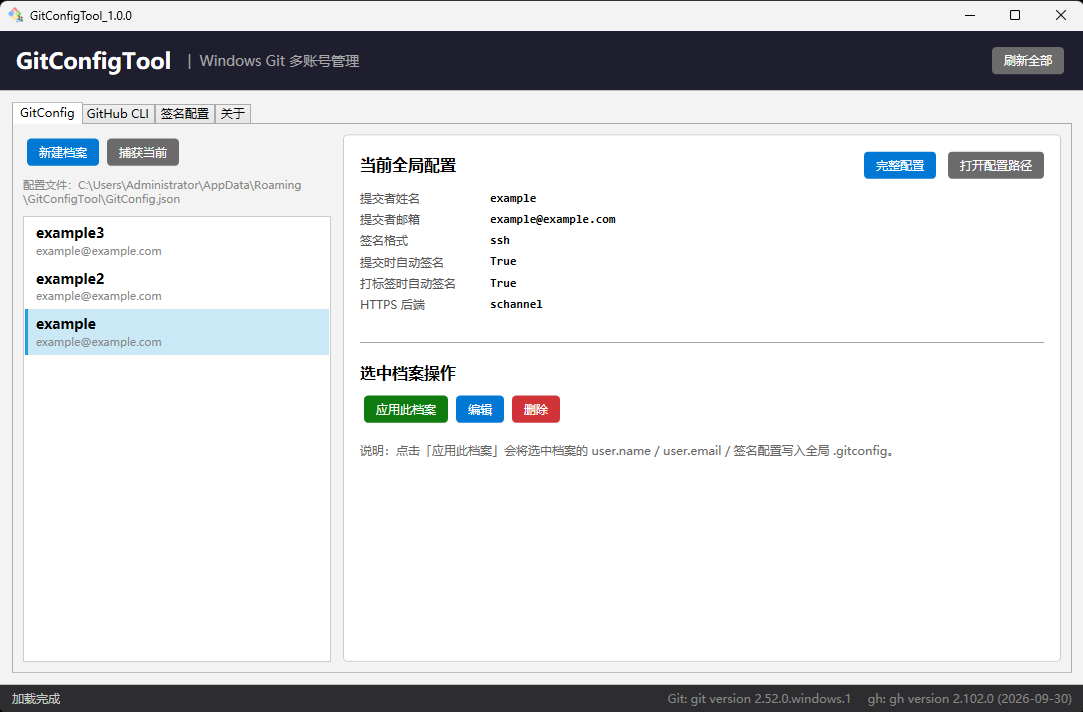
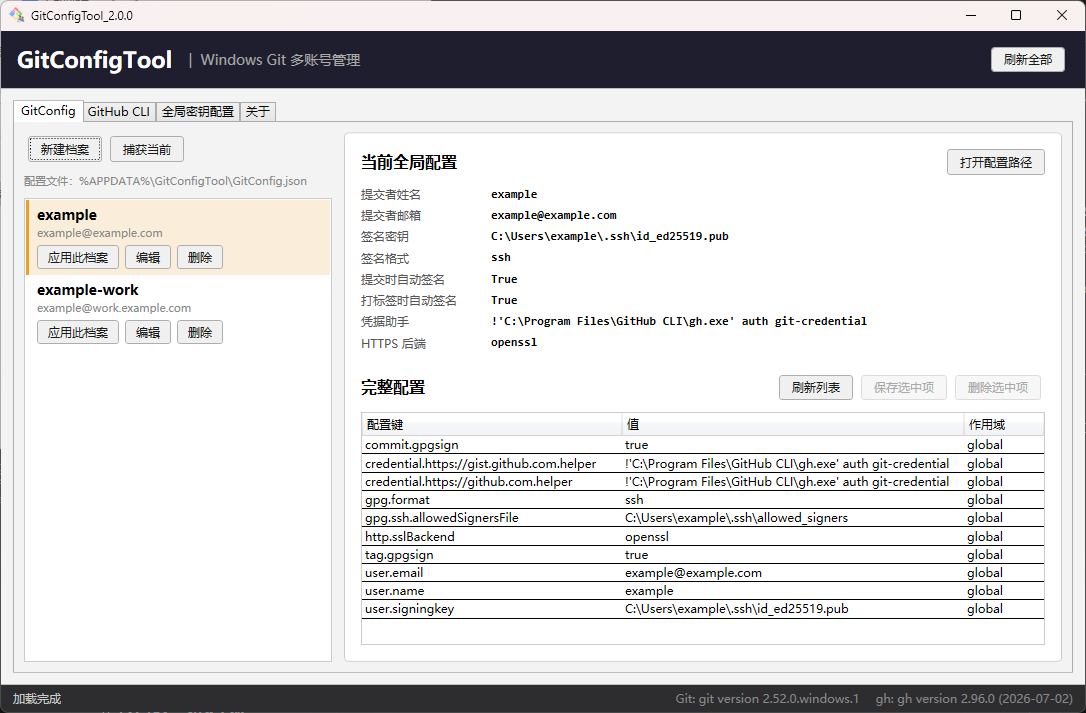
更新 README：补齐目录树、功能说明与已知限制

diff --git a/README.md b/README.md
@@ -4,6 +4,8 @@
 
 > **Windows平台 `Git` 多账号快速切换工具**
 
+> 把繁杂的命令通过GUI快速操作，提高效率，节省时间
+
 [![Platform](https://img.shields.io/badge/Platform-Windows_10%2F11-0078D4?logo=windows&logoColor=white)](https://www.microsoft.com/windows)
 [![Runtime](https://img.shields.io/badge/Runtime-.NET_Framework_4.8-512BD4?logo=dotnet&logoColor=white)](https://dotnet.microsoft.com/download/dotnet-framework)
 [![Language](https://img.shields.io/badge/Language-C%23-239120?logo=csharp&logoColor=white)](https://learn.microsoft.com/dotnet/csharp/)
@@ -23,6 +25,8 @@
 | **Git多账号档案** | 把常用的 Git 身份存成档案，一键切换|
 | **一键应用** | 把档案的 `user.name` / `user.email` / 签名配置写入全局 `.gitconfig`|
 | **GitHub CLI 多账号** | 实时读取 `gh` 已登录账号，登录、切换、退出都在界面完成|
+| **SSH 密钥管理** | 调用 `ssh-keygen` 生成密钥对，列表里可预览、编辑、删除|
+| **签名白名单** | 创建 / 编辑 `allowed_signers`；「识别密钥项目」自动找出漏加的公钥与失效条目|
 
 ## 📚 环境要求
 
@@ -44,17 +48,29 @@
 
 **Git 身份与签名**  `.gitconfig`（`%USERPROFILE%\.gitconfig`），本工具通过调用 `git config --global` 读写，不直接编辑文件，因此不会破坏配置格式
 
+**提交签名链路**  私钥签名、公钥校验，两者靠 `allowed_signers` 白名单对应。本工具把这条链路串起来：生成密钥对 → 把公钥按「标识 算法 公钥」写进白名单 → 档案里配好签名密钥与格式 → 提交时由 `git` 调用 `ssh-keygen` 完成签名。**白名单里的「标识」必须和提交时的 `user.email` 一致，否则签名永远校验不过**
+
 **GitHub CLI 账号** 的`token`存在Windows`凭据管理器`中，文本配置里只有"登录了哪些账号"。因此当前生效账号只能通过执行 `gh auth status` 读取，本工具不解析任何本地文件
 
 **残留凭据清理**：`gh auth logout` 只删除配置，无法自动删除凭据库里的 token。本工具通过 Windows API（`CredEnumerate` / `CredDelete`）在启动时和退出后清理这些`无效凭据`
 
 ## 💾 数据存放
 
-GitConfigTool档案数据保存在：
+**档案数据**
 
 ```text
 %APPDATA%\GitConfigTool\GitConfig.json
 ```
+
+**工具读写的 Git 与 SSH 文件**
+
+```text
+%USERPROFILE%\.gitconfig              # 全局配置，应用档案时通过 git config --global 写入
+%USERPROFILE%\.ssh\                   # 密钥对与签名白名单
+```
+
+> [!NOTE]
+> `.gitconfig` 不直接编辑，全部通过 `git config --global` 读写，因此不会破坏配置格式
 
 ## 🔧 本地构建
 
@@ -82,48 +98,70 @@ gh repo clone NeetheCheeBao/GitConfigTool
 
 ```text
 GitConfigTool
-|   .gitignore                        # Git忽略配置
-|   App.xaml                          # 应用入口：全局样式
-|   App.xaml.cs                       # 应用类（仅声明）
-|   build.bat                         # 一键构建脚本
-|   GitConfigTool.csproj              # 项目文件：net48 / WPF / 单 exe 配置
-|   GitConfigTool.sln                 # Visual Studio 解决方案
-|   LICENSE                           # 许可证
-|   README.md                         # 自述文件
+|   .gitignore                            # Git忽略配置
+|   App.xaml                              # 应用入口：全局样式
+|   App.xaml.cs                           # 应用类（仅声明）
+|   build.bat                             # 一键构建脚本
+|   GitConfigTool.csproj                  # 项目文件：net48 / WPF / 单 exe 配置
+|   GitConfigTool.sln                     # Visual Studio 解决方案
+|   LICENSE                               # 许可证
+|   README.md                             # 自述文件
+|   version.ini                           # 版本号：构建脚本与程序集共用
 |   
-+---assets                            # 静态资源
-|       icon.ico                      # 程序图标
++---assets                                # 静态资源
+|       icon.ico                          # 程序图标
 |       
-+---helpers                           # 通用工具类
-|       CredentialCleaner.cs          # 清理 gh 在系统凭据库里的残留 token
-|       ExecutableLocator.cs          # 定位 git / gh 及 Git 自带工具的真实路径
-|       RelayCommand.cs               # ICommand 实现（同步 + 异步两个版本）
++---helpers                               # 通用工具类
+|       AppInfo.cs                        # 应用名称与版本（读程序集属性）
+|       ButtonHover.cs                    # 按钮悬停/按下配色的附加属性
+|       CredentialCleaner.cs              # 清理 gh 在系统凭据库里的残留 token
+|       ExecutableLocator.cs              # 定位 git / gh 及 Git 自带工具的真实路径
+|       FolderWatcher.cs                  # 目录监听：去抖 + 切回 UI 线程
+|       PathDisplay.cs                    # 把绝对路径压缩成 %USERPROFILE% 等写法
+|       RecycleBin.cs                     # 把文件移到回收站，而不是直接删除
+|       RelayCommand.cs                   # ICommand 实现（同步 + 异步两个版本）
+|       ShellHelper.cs                    # 资源管理器定位与剪贴板复制
+|       SshKeyValidator.cs                # SSH 密钥与白名单的格式校验（纯内存）
 |       
-+---models                            # 数据模型
-|       ConfigDisplayRow.cs           # 「当前全局配置」展示行
-|       GitConfigItem.cs              # 单条 git config 项（键 / 值 / 作用域）
-|       GithubAccount.cs              # gh 账号（用户名 / 主机 / 是否生效）
-|       GitProfile.cs                 # Git 账号档案（身份 + 签名 + 凭据配置）
-|       LogEntry.cs                   # 命令记录条目 + 日志类型枚举（决定颜色）
-|               
-+---screenshot                        # 界面截图
-|       demo1.png                     # 演示截图
++---models                                # 数据模型
+|       ConfigDisplayRow.cs               # 「当前全局配置」展示行
+|       GitConfigItem.cs                  # 单条 git config 项（键 / 值 / 作用域）
+|       GithubAccount.cs                  # gh 账号（用户名 / 主机 / 是否生效）
+|       GitProfile.cs                     # Git 账号档案（身份 + 签名 + 凭据配置）
+|       LogEntry.cs                       # 命令记录条目 + 日志类型枚举（决定颜色）
+|       SshFileEntry.cs                   # SSH 目录里的单个文件（名称 / 类型 / 大小）
+|       SshKeyPairContent.cs              # 密钥对的文件路径与文本内容
+|       SshKeyRequest.cs                  # 创建密钥对的输入参数
+|       SshListEntry.cs                   # SSH 列表条目（密钥对 / 白名单 / 占位）
+|       SshWhitelistContent.cs            # 白名单文件的路径与文本内容
+|       WhitelistReconcileItem.cs         # 白名单对账的单条待处理项
+|       WhitelistReconcileResult.cs       # 白名单对账结果（分区展示）
 |       
-+---services                          # 业务服务层（对外部命令与文件的封装）
-|       GithubCliService.cs           # gh 账号管理：状态解析 / 登录 / 切换 / 退出
-|       GitService.cs                 # git 操作：配置读写 / 应用档案 / 读当前身份
-|       ProfileStorageService.cs      # 档案持久化（手写 JSON 读写 + 旧文件迁移）
++---screenshot                            # 界面截图
+|       demo1.png                         # 演示截图
 |       
-+---viewmodels                        # 视图模型
-|       MainViewModel.cs              # 主视图模型：初始化与全部命令
++---services                              # 业务服务层（对外部命令与文件的封装）
+|       GithubCliService.cs               # gh 账号管理：状态解析 / 登录 / 切换 / 退出
+|       GitService.cs                     # git 操作：配置读写 / 应用档案 / 读当前身份
+|       ProfileStorageService.cs          # 档案持久化（手写 JSON 读写 + 旧文件迁移）
+|       SshService.cs                     # SSH 密钥与白名单：列出 / 生成 / 读写 / 对账
 |       
-\---views                             # 视图（窗口与对话框）
-        ConfigWindow.xaml             # 完整配置独立窗口（浏览 / 编辑 config 项）
-        ConfigWindow.xaml.cs          # 复用主视图模型作为数据源
-        MainWindow.xaml               # 主窗口：四个标签页的全部界面
-        MainWindow.xaml.cs            # 档案编辑回调、命令记录着色渲染
-        ProfileEditWindow.xaml        # 档案编辑对话框（身份 / 签名 / 凭据字段）
-        ProfileEditWindow.xaml.cs     # 保存前校验必填项
++---viewmodels                            # 视图模型
+|       MainViewModel.cs                  # 主视图模型：初始化与全部命令
+|       
+\---views                                 # 视图（窗口与对话框）
+        MainWindow.xaml                   # 主窗口：四个标签页的全部界面
+        MainWindow.xaml.cs                # 窗口事件回调、命令记录着色渲染
+        ProfileEditWindow.xaml            # 档案编辑对话框（身份 / 签名 / 凭据字段）
+        ProfileEditWindow.xaml.cs         # 保存前校验必填项
+        SshKeyCreateWindow.xaml           # 创建密钥对话框（名称 / 算法 / 标识）
+        SshKeyCreateWindow.xaml.cs        # 参数校验后调用 ssh-keygen
+        SshKeyViewWindow.xaml             # 密钥内容窗口（私钥 + 公钥，可编辑）
+        SshKeyViewWindow.xaml.cs          # 预览 / 编辑两种模式，保存前校验
+        SshWhitelistWindow.xaml           # 白名单内容窗口（单框，可编辑）
+        SshWhitelistWindow.xaml.cs        # 保存前校验每行格式
+        WhitelistReconcileWindow.xaml     # 白名单对账窗口（勾选后一次应用）
+        WhitelistReconcileWindow.xaml.cs  # 应用勾选的新增与删除
 ```
 
 ## ⭕ 已知限制
@@ -133,6 +171,10 @@ GitConfigTool
 - 本工具只管理全局配置，不读写仓库级 `.git/config`
 - 退出 GitHub 账号只删除Windows本地凭据，不会吊销服务端授权
 - Git / GitHub CLI 只按「注册表 / `where.exe` / PATH」定位，安装在自定义目录且未加入 PATH 时无法找到
+- 私钥密码（passphrase）暂未开放，生成的私钥均为明文存储
+- 密钥与白名单的**配对关系不做校验**：工具不解密私钥，只做格式检查（PEM 头尾 / base64 / `openssh-key-v1` 魔数），改了私钥后需自行确认公钥是否同步
+- 「使用中」的判断基于「应用档案」实际会写入的配置项；档案里留空的项（`gpg.format` / `credential.helper` / `http.sslBackend`）代表「不修改」，因此不参与比对
+- 「识别密钥项目」把「白名单里有、本机找不到对应密钥」一律列为待处理项。**白名单里放同事的公钥属于正常情况**，这类条目默认不勾选删除，删之前请自行确认
 
 ## ⚖ 许可证
 
